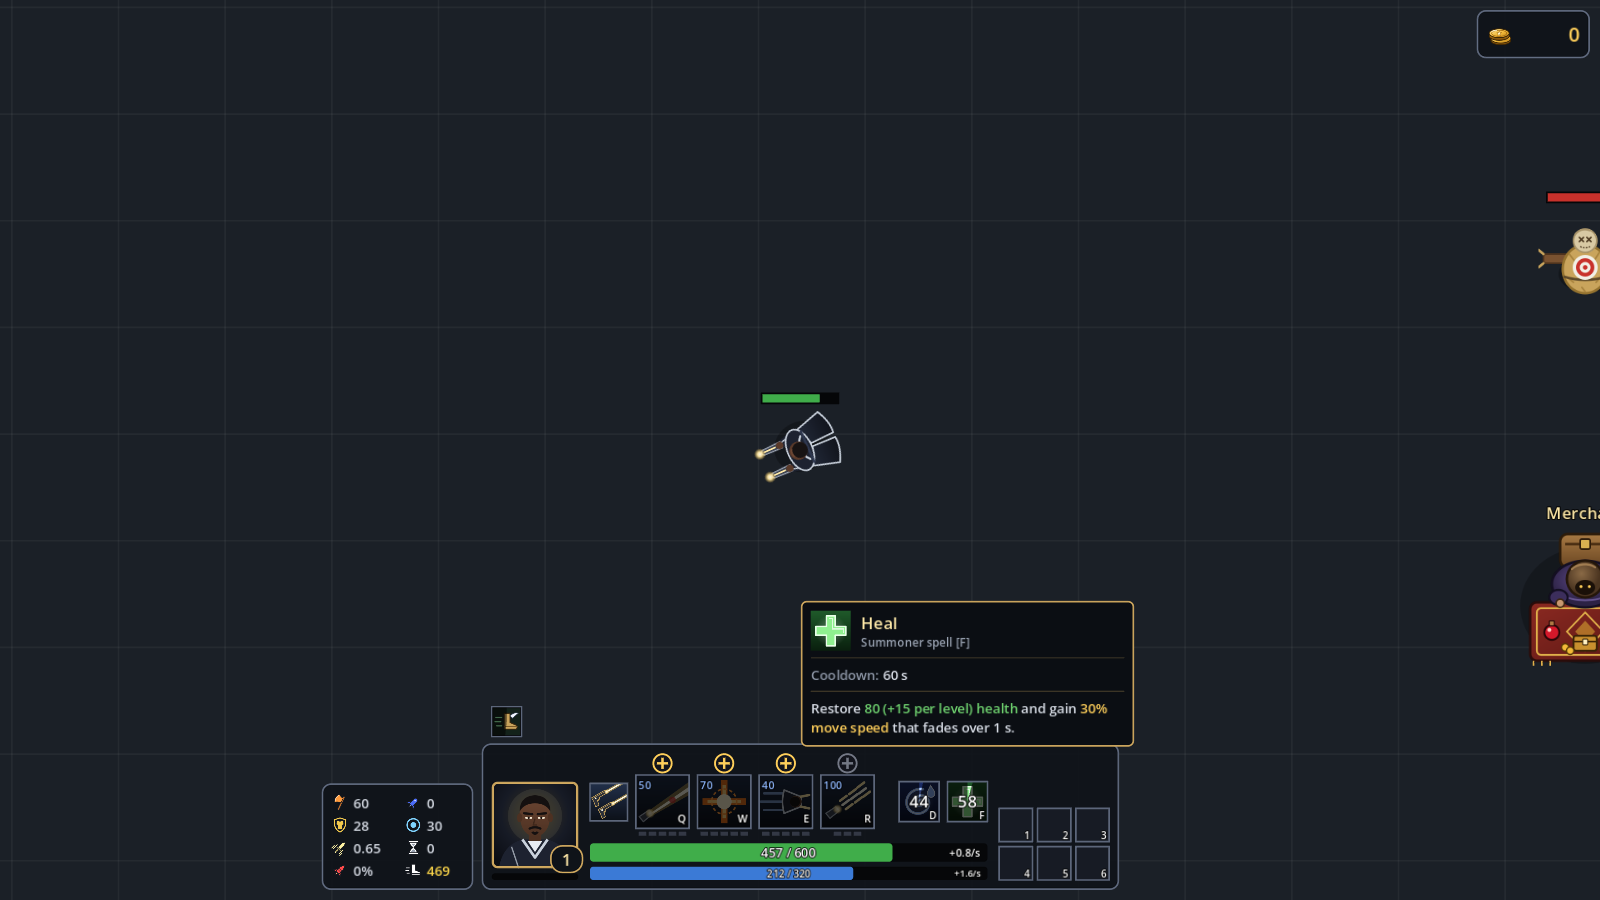
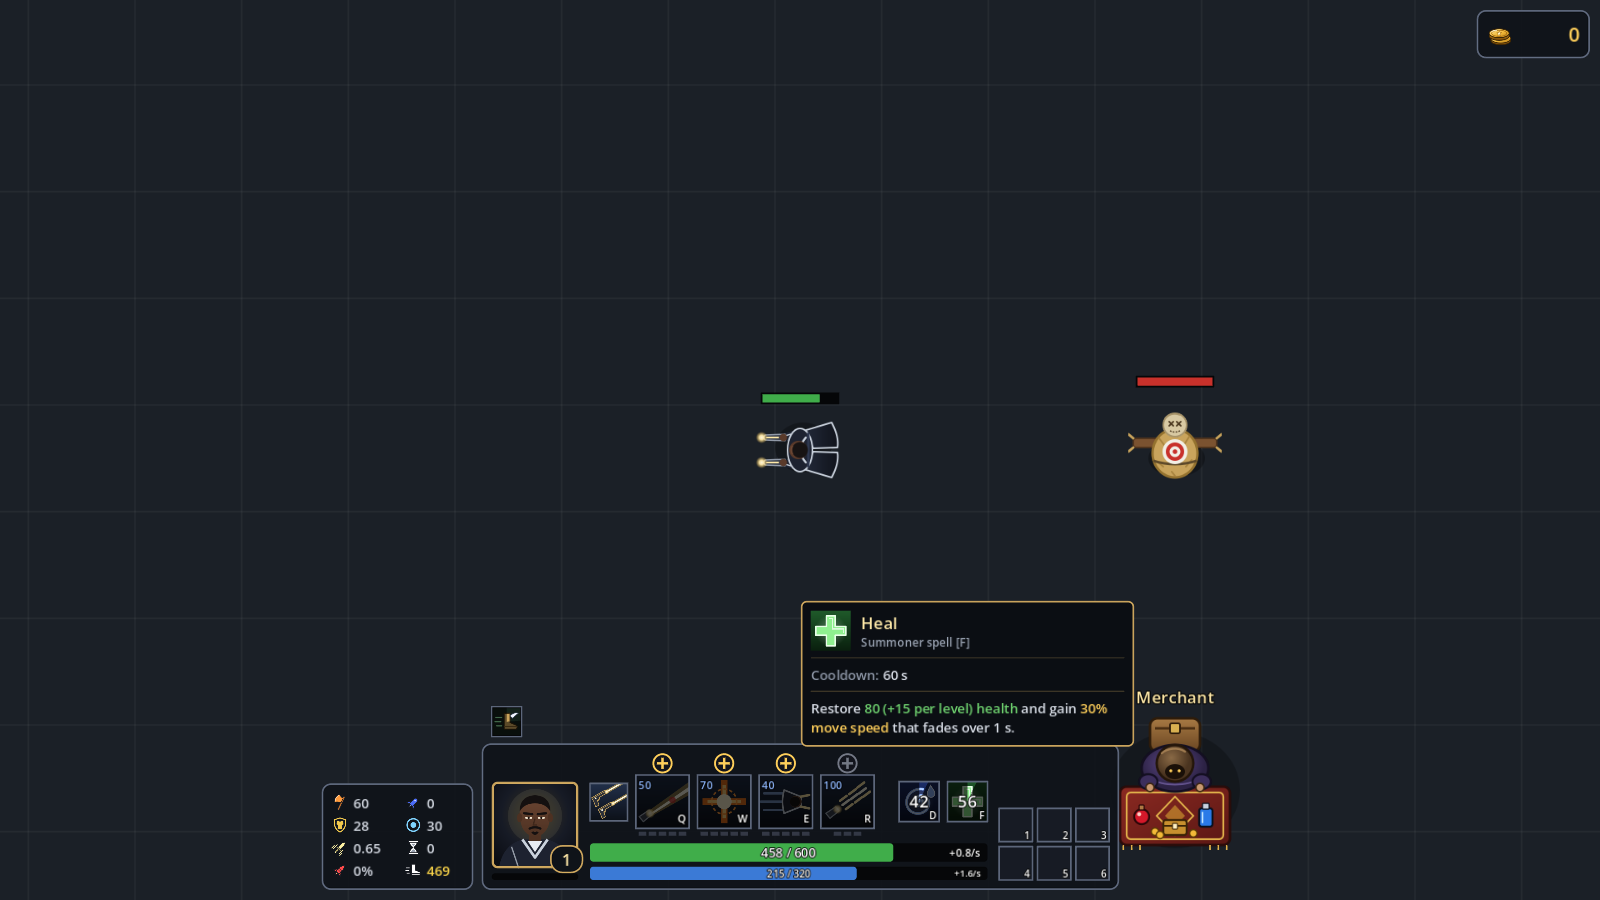
Barrier shows a golden bubble around Lucian while it lasts; Flash drops a move ordered before it, like a dash

diff --git a/docs/report/phase4.md b/docs/report/phase4.md
@@ -69,6 +69,7 @@ Each spell keeps its own cooldown, also when you move it to the other key. Abili
 | Redraw the Flash and Barrier icons | Flash: a burst of light where it lands and a ring of yellow sparks where it left. Barrier: a gold figure inside a golden bubble. |
 | Every dash shows a trail; Flash only marks where Lucian was | E (light blue), Galeforce (pale green) and Rocketbelt (violet) leave a trail that grows behind Lucian from the start of the dash and fades once it lands. Flash leaves none: yellow sparks ring the spot Lucian left, drift out and fade in 0.6 s. |
 | Effects for Clarity and Heal; a trail for Ghost | Heal: a green ring spreads out and green crosses rise around Lucian. Clarity: blue motes spiral into him, then a small flash. Both follow him for 0.9 s. Ghost: pale teal afterimages of Lucian trail behind him while he runs, each fading in 0.35 s. I read "a trail before Lucian" as behind him, where he has been. |
+| An effect for Barrier; Flash ignores an earlier move too | Barrier: a golden bubble pops up around Lucian, shimmers while the shield lasts, and fades when it is gone. Flash now drops a move (or merchant visit) clicked before it, even with right-click held, like the dashes; right-click again to walk on. |
 | A move clicked before a dash should be ignored | It was already dropped for a quick click, but with right-click still held, Lucian kept following the cursor after the dash. Now any dash drops the move (and a merchant visit) from before it, even while the button is held. Right-click again, during the dash or after it, to walk on. Attacks still carry on. |
 
 ## Choices I made where the request was open
@@ -115,7 +116,7 @@ Each spell keeps its own cooldown, also when you move it to the other key. Abili
 | ![Summoner card](phase4/summoners_6_card.png) Heal's card; cooldowns on D and F | ![Resolution](phase4/settings_3_graphics.png) Graphics → Resolution |
 | ![Camera away](phase4/camera_0_away.png) Free camera panned away | ![Camera back](phase4/camera_1_back.png) After Space |
 | ![Galeforce](phase4/actives_1_galeforce.png) Follow-up: Galeforce's missiles curving onto the dummy, its green dash trail; Lucian's HP bar | ![Regen](phase4/stats_1_extra.png) Follow-up: one regen cell, "+0.8/s" on the HP bar |
-| ![Flash](phase4/summoners_1_flash.png) Follow-up: Flash's yellow sparks where Lucian stood, no trail | ![Ghost](phase4/summoners_2_barrier_ghost.png) Follow-up: Ghost's afterimages behind Lucian (Barrier on the HP bar) |
+| ![Flash](phase4/summoners_1_flash.png) Follow-up: Flash's yellow sparks where Lucian stood, no trail | ![Ghost](phase4/summoners_2_barrier_ghost.png) Follow-up: Ghost's afterimages behind Lucian; Barrier's golden bubble |
 | ![Heal](phase4/summoners_4_heal.png) Follow-up: Heal's ring and rising crosses | ![Clarity](phase4/summoners_5_clarity.png) Follow-up: Clarity's motes spiralling in |
 
 ## Known limits

diff --git a/docs/implementation/phase4.md b/docs/implementation/phase4.md
@@ -874,6 +874,8 @@ Everything in the plan is in place, one commit per task (Tasks 0–9), then the 
 - **Icons redrawn:** Flash is a burst of light where it lands, with a ring of yellow sparks where it left; Barrier is a gold figure inside a golden bubble with faint hex lines.
 - **Moves before a dash are dropped.** `start_dash()` already ended a move order, but a held right-click kept re-issuing it whenever the world spot under the cursor changed (aiming the dash, or the follow camera scrolling), so Lucian walked on after landing. Lucian now emits `dash_started`, and `LucianController` drops the held move on it. A merchant visit ends with the dash too. A right-click during the dash is kept and walked after it; attack orders still carry on. Tests: `tests/unit/test_lucian_controller.gd`.
 - **Summoner effects:** `HealBurst` (a green ring spreading to 80 and 7 crosses rising 56, 0.9 s) and `ClarityBurst` (10 blue motes spiralling in from 70, then a small flash, 0.9 s) are children of Lucian, so they move with him. Ghost leaves a `GhostImage` every 28 units Lucian moves: his body texture through `ghost_image.gdshader` (pale teal, a little of his shading kept), fading from 55% over 0.35 s. `Lucian.spawn_under()` puts them in the world just before Lucian, so he draws over them; in the Projectiles layer they covered him. All three are off on low effects.
+- **Barrier bubble:** `BarrierBubble`, a child of Lucian (radius 66, so the cape fits), pops in over 0.15 s, pulses and has a glint going round its rim, and fades for 0.25 s once `lucian.barrier` is 0. A new Barrier replaces the old bubble. Barrier, Heal and Clarity effects sit right after `Visuals` among Lucian's children, so his HP bar draws over them.
+- **Flash drops moves too:** `blink_to()` calls the same `_drop_move()` as `start_dash()`: a move or merchant visit ordered before it ends, and `move_dropped` (was `dash_started`) tells the controller to drop a held right-click.
 
 ### Running the checks
 

diff --git a/docs/lucian_game_design.md b/docs/lucian_game_design.md
@@ -27,7 +27,7 @@
 
 | Input | Action |
 |---|---|
-| Right-click | Move (hold to keep following the cursor). A dash (E, Galeforce, Rocketbelt) drops a move or merchant visit ordered before it, even with the button still held: right-click again, during the dash or after it, to walk on. |
+| Right-click | Move (hold to keep following the cursor). A dash (E, Galeforce, Rocketbelt) or Flash drops a move or merchant visit ordered before it, even with the button still held: right-click again, during the dash or after it, to walk on. |
 | Left-click on enemy | Attack |
 | A + left-click | Attack-move |
 | Q / W / E / R | Skills |
@@ -254,9 +254,9 @@ Placeholder numbers. Ability haste doesn't shorten them, and each spell keeps it
 
 | Spell | Cooldown | Effect |
 |---|---|---|
-| Flash | 90 s | Blink up to 400 toward the cursor. If that spot is inside a wall or an enemy, land just short of it (so Flash can cross them). A blink leaves no trail: yellow sparks ring the spot Lucian left. |
+| Flash | 90 s | Blink up to 400 toward the cursor. If that spot is inside a wall or an enemy, land just short of it (so Flash can cross them). A blink leaves no trail: yellow sparks ring the spot Lucian left. Like a dash, it drops a move ordered before it. |
 | Ghost | 60 s | +40% move speed and pass through enemies for 6 s. Pale afterimages trail behind Lucian as he runs. |
-| Barrier | 60 s | Shield of 95 + 18 × level for 2.5 s; heal and shield power makes it stronger. |
+| Barrier | 60 s | Shield of 95 + 18 × level for 2.5 s; heal and shield power makes it stronger. A golden bubble shows around Lucian while it lasts. |
 | Heal | 60 s | Heal 80 + 15 × level, +30% move speed fading over 1 s. A green ring spreads out and crosses rise around Lucian. |
 | Clarity | 45 s | Restore 50% of max mana. Blue motes spiral into Lucian. |
 | Smite | 30 s | 450 true damage to the enemy nearest the cursor within 500, heal 10% of max HP. |

diff --git a/docs/ui_design.md b/docs/ui_design.md
@@ -261,7 +261,7 @@ If the two items are not a valid recipe, no pop-up appears and they swap.
 |---|---|
 | Audio | Master, Music and Sound effects volume (0–100). Releasing a slider plays a test sound. No music yet. |
 | Controls | Every rebindable action with its key or mouse button (including Center camera, Space). Click one, then press a key or mouse button; ESC cancels. A key already used by another action swaps the two. **Reset to defaults.** ESC (menu) and F3 + Q (debug) can't be rebound; Ctrl + a skill key still ranks the skill up, and Ctrl + the stats key toggles the stats panel. |
-| Graphics | Window mode (windowed, borderless fullscreen, fullscreen), Resolution (1280×720, 1366×768, 1600×900, 1920×1080, 2560×1440, 3840×2160; sizes too big for a window on this screen, title bar included, are greyed out and marked "too big"; sets and centers the window, greyed out in borderless/fullscreen), VSync, FPS cap (30/60/120/144/unlimited), Quality (Low: no anti-aliasing, no dash trails, muzzle flashes or summoner spell effects (Flash sparks, Ghost afterimages, Heal and Clarity bursts); Medium: 2× MSAA; High: 4× MSAA), Show FPS. |
+| Graphics | Window mode (windowed, borderless fullscreen, fullscreen), Resolution (1280×720, 1366×768, 1600×900, 1920×1080, 2560×1440, 3840×2160; sizes too big for a window on this screen, title bar included, are greyed out and marked "too big"; sets and centers the window, greyed out in borderless/fullscreen), VSync, FPS cap (30/60/120/144/unlimited), Quality (Low: no anti-aliasing, no dash trails, muzzle flashes or summoner spell effects (Flash sparks, Ghost afterimages, Barrier bubble, Heal and Clarity bursts); Medium: 2× MSAA; High: 4× MSAA), Show FPS. |
 | Gameplay | Skill queue (on by default; see the game design doc §2). |
 
 - **Not yet:** cast modes (normal / quick / quick with indicator) and camera options.
